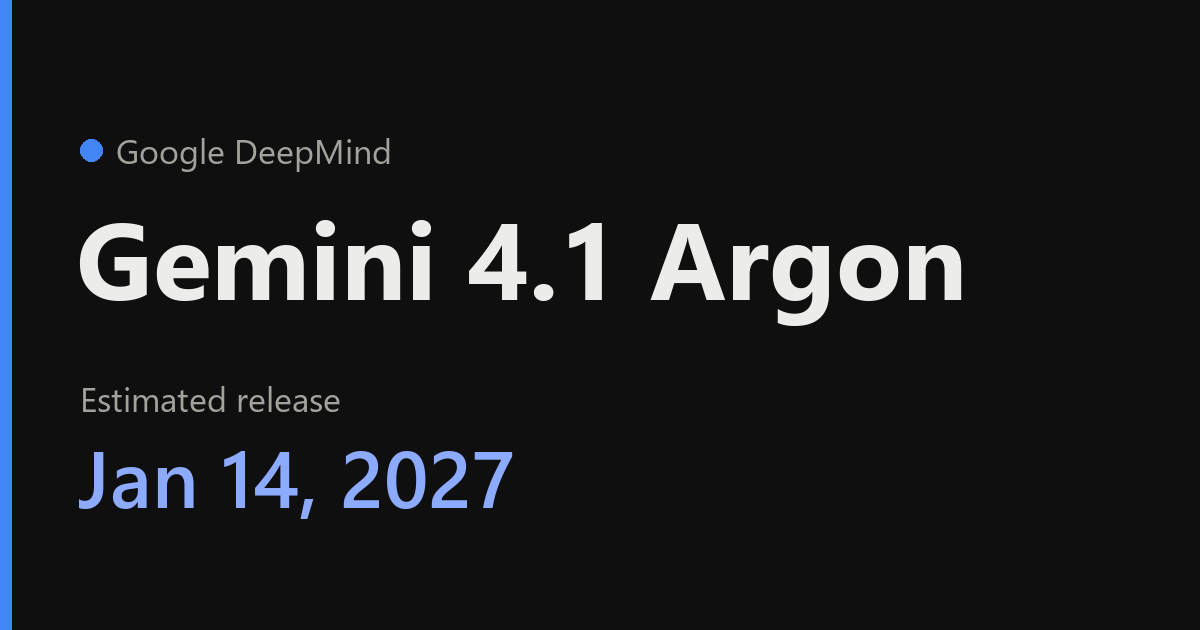
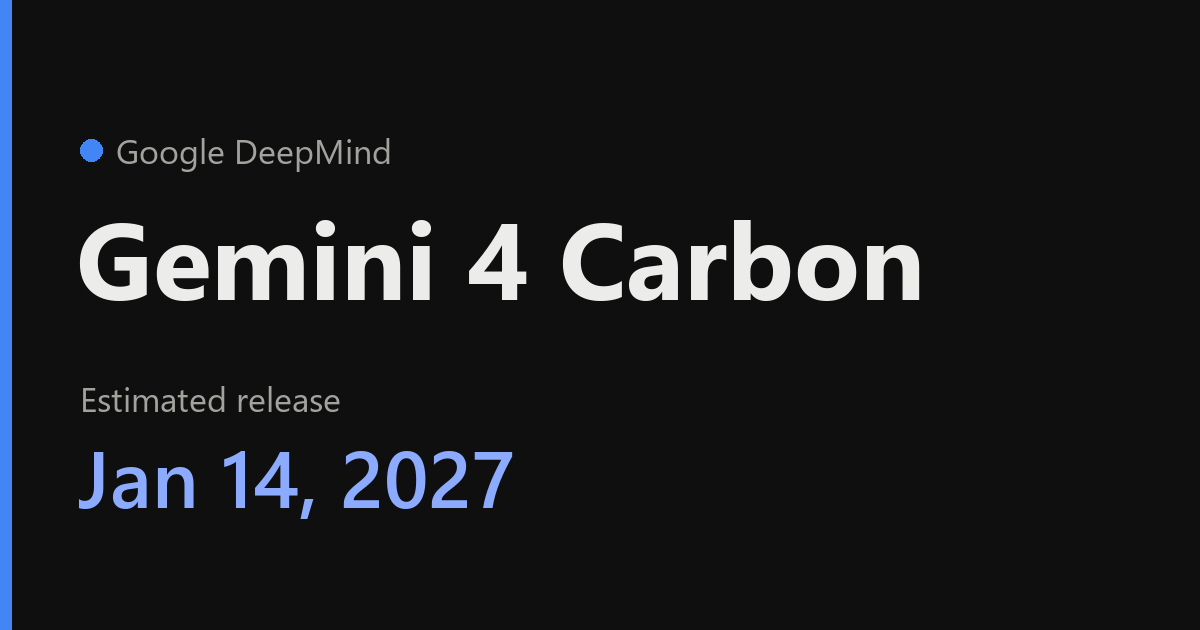
gemini 4 carbon

Changed region(s): [[0.4317, 0.3317, 0.8017, 0.5429]]

diff --git a/llm-countdowns/google/gemini-4-1-argon/index.html b/llm-countdowns/google/gemini-4-1-argon/index.html
@@ -4,21 +4,21 @@
   <meta charset="UTF-8">
   <meta name="viewport" content="width=device-width, initial-scale=1">
   <meta name="generator" content="llm-countdowns">
-  <title>When is Gemini 4.1 Argon coming out? Expected Jan 14, 2027</title>
-  <meta name="description" content="Estimated release: Jan 14, 2027. Google DeepMind. Speculative successor; Google has not announced a Gemini 4.1 name or release date as of Oct 20, 2026. Follows Gemini 4 Argon (53 on the AA Intelligence Index).">
+  <title>When is Gemini 4 Carbon coming out? Expected Jan 14, 2027</title>
+  <meta name="description" content="Estimated release: Jan 14, 2027. Google DeepMind. Rumored name for a possible future Gemini model; no Carbon launch, official product name, version or schedule found in Google sources checked Oct 22, 2026. Follows Gemini 4 Argon (53 on the AA Intelligence Index).">
   <link rel="canonical" href="https://waifuai.github.io/llm-countdowns/google/gemini-4-1-argon/">
   <meta property="og:site_name" content="LLM Countdowns">
   <meta property="og:type" content="website">
   <meta property="og:url" content="https://waifuai.github.io/llm-countdowns/google/gemini-4-1-argon/">
-  <meta property="og:title" content="When is Gemini 4.1 Argon coming out? Expected Jan 14, 2027">
-  <meta property="og:description" content="Estimated release: Jan 14, 2027. Google DeepMind. Speculative successor; Google has not announced a Gemini 4.1 name or release date as of Oct 20, 2026. Follows Gemini 4 Argon (53 on the AA Intelligence Index).">
-  <meta property="og:image" content="https://waifuai.github.io/llm-countdowns/google/gemini-4-1-argon/og.png?v=2056ed789c">
+  <meta property="og:title" content="When is Gemini 4 Carbon coming out? Expected Jan 14, 2027">
+  <meta property="og:description" content="Estimated release: Jan 14, 2027. Google DeepMind. Rumored name for a possible future Gemini model; no Carbon launch, official product name, version or schedule found in Google sources checked Oct 22, 2026. Follows Gemini 4 Argon (53 on the AA Intelligence Index).">
+  <meta property="og:image" content="https://waifuai.github.io/llm-countdowns/google/gemini-4-1-argon/og.png?v=f5a9f55cef">
   <meta property="og:image:width" content="1200">
   <meta property="og:image:height" content="630">
   <meta name="twitter:card" content="summary_large_image">
-  <meta name="twitter:title" content="When is Gemini 4.1 Argon coming out? Expected Jan 14, 2027">
-  <meta name="twitter:description" content="Estimated release: Jan 14, 2027. Google DeepMind. Speculative successor; Google has not announced a Gemini 4.1 name or release date as of Oct 20, 2026. Follows Gemini 4 Argon (53 on the AA Intelligence Index).">
-  <meta name="twitter:image" content="https://waifuai.github.io/llm-countdowns/google/gemini-4-1-argon/og.png?v=2056ed789c">
+  <meta name="twitter:title" content="When is Gemini 4 Carbon coming out? Expected Jan 14, 2027">
+  <meta name="twitter:description" content="Estimated release: Jan 14, 2027. Google DeepMind. Rumored name for a possible future Gemini model; no Carbon launch, official product name, version or schedule found in Google sources checked Oct 22, 2026. Follows Gemini 4 Argon (53 on the AA Intelligence Index).">
+  <meta name="twitter:image" content="https://waifuai.github.io/llm-countdowns/google/gemini-4-1-argon/og.png?v=f5a9f55cef">
   <meta name="theme-color" content="#4285f4">
   <link rel="icon" href="/favicon.ico" sizes="any">
   <link rel="stylesheet" href="../../site.css?v=847acb59eb">
@@ -38,10 +38,10 @@
     </div>
   </header>
   <main class="wrap">
-    <p class="crumbs"><a href="../../">LLM Countdowns</a> / <a href="../">Google DeepMind</a> / Gemini 4.1 Argon</p>
+    <p class="crumbs"><a href="../../">LLM Countdowns</a> / <a href="../">Google DeepMind</a> / Gemini 4 Carbon</p>
     <p class="eyebrow"><span class="dot" style="--lab: #4285f4"></span>Google DeepMind</p>
-    <h1>Gemini 4.1 Argon</h1>
-    <p class="aka">Tracked as: Gemini 4.1 Argon (speculative successor name)</p>
+    <h1>Gemini 4 Carbon</h1>
+    <p class="aka">Tracked as: Gemini 4 Carbon (rumored name)</p>
     <div class="when">
       <p class="when-label">Estimated release</p>
       <div class="when-date">Jan 14, 2027</div>
@@ -52,12 +52,12 @@
 
     <div class="actions">
       <button class="btn" type="button" data-copy-link>Copy link</button>
-      <button class="btn" type="button" data-calendar="2027-01-14T17:00:00Z" data-id="google-gemini-4-1-argon" data-name="Gemini 4.1 Argon">Add to calendar</button>
+      <button class="btn" type="button" data-calendar="2027-01-14T17:00:00Z" data-id="google-gemini-4-1-argon" data-name="Gemini 4 Carbon">Add to calendar</button>
     </div>
 
     <h2>Details</h2>
     <dl class="facts">
-      <dt>Status</dt><dd>Speculative successor; Google has not announced a Gemini 4.1 name or release date as of Oct 20, 2026</dd>
+      <dt>Status</dt><dd>Rumored name for a possible future Gemini model; no Carbon launch, official product name, version or schedule found in Google sources checked Oct 22, 2026</dd>
       <dt>Current model</dt><dd>Gemini 4 Argon (high), 53 on the Intelligence Index, released Oct 13, 2026 (<span data-since="2026-10-13"></span>)</dd>
       <dt>Projected score</dt><dd>About 55 (+2)</dd>
       <dt>Typical cycle</dt><dd>About 93 days between releases</dd>
@@ -65,13 +65,13 @@
 
     <h2>Why this date</h2>
     <ul class="reasons">
-      <li>Gemini 4 Argon is already released: Google announced it Sept 30 and confirmed general API availability Oct 13, 2026</li>
-      <li>Gemini 4.1 Argon is a forecast label only; neither the version number nor continued use of the Argon name is confirmed by Google</li>
-      <li>Gemini 3 Pro launched Nov 18, 2025 and Gemini 3.1 Pro followed Feb 19, 2026, a gap of 93 days; this is one historical comparison, not a reliable schedule</li>
-      <li>Applying that 93-day interval to Argon&#x27;s Oct 13 public release gives Jan 14, 2027; the countdown uses this illustrative midpoint for a low-confidence January window</li>
-      <li>The projected score assumes a modest 2-point gain over Argon&#x27;s observed 53; this is a scenario, not a benchmark result or a Google claim</li>
+      <li>Gemini 4 Argon is already released: Google confirmed general API availability Oct 13, 2026</li>
+      <li>Carbon replaces the speculative Gemini 4.1 Argon label on this forecast; neither label establishes an official successor identity or public version number</li>
+      <li>No Carbon entry was found in the checked Google Gemini API release notes; this page does not establish public availability, specifications, pricing or performance</li>
+      <li>The retained Jan 14, 2027 estimate applies one historical 93-day gap (Gemini 3 Pro to 3.1 Pro) to Argon&#x27;s Oct 13 release; it is a low-confidence placeholder, not a Carbon-specific schedule</li>
+      <li>The projected +2 Intelligence Index gain over Argon&#x27;s historical 53 baseline is a scenario, not a Carbon benchmark or a Google claim</li>
     </ul>
-    <p class="source">Source: Forecast extrapolation, checked Oct 16, 2026: Google Gemini API changelog, https://ai.google.dev/gemini-api/docs/changelog; Gemini 3 launch (Nov 18, 2025), https://blog.google/products-and-platforms/products/gemini/gemini-3/; Gemini 3.1 Pro launch (Feb 19, 2026), https://blog.google/innovation-and-ai/models-and-research/gemini-models/gemini-3-1-pro/; baseline score from https://artificialanalysis.ai/models/gemini-4-argon; release-status review Oct 20, 2026: https://ai.google.dev/gemini-api/docs/changelog</p>
+    <p class="source">Source: Release-status check Oct 22, 2026: https://ai.google.dev/gemini-api/docs/changelog (no Carbon entry found); Carbon is an unconfirmed forecast label, not a Google-announced name. Historical date comparison: https://blog.google/products-and-platforms/products/gemini/gemini-3/; https://blog.google/innovation-and-ai/models-and-research/gemini-models/gemini-3-1-pro/; historical baseline: https://artificialanalysis.ai/models/gemini-4-argon</p>
 
     <h2>More from Google DeepMind</h2>
     <h3 class="month">November 2026</h3>
@@ -91,7 +91,7 @@
       </li>
       <li class="release is-current">
         <span class="release-date">Jan 14</span>
-        <span class="release-main"><span class="release-name"><a href="../gemini-4-1-argon/">Gemini 4.1 Argon</a></span></span>
+        <span class="release-main"><span class="release-name"><a href="../gemini-4-1-argon/">Gemini 4 Carbon</a></span></span>
         <span class="release-rel" data-until="2027-01-14T17:00:00Z"></span>
       </li>
     </ol>

diff --git a/llm-countdowns/google/index.html b/llm-countdowns/google/index.html
@@ -5,19 +5,19 @@
   <meta name="viewport" content="width=device-width, initial-scale=1">
   <meta name="generator" content="llm-countdowns">
   <title>Google DeepMind: next model expected Nov 12, 2026</title>
-  <meta name="description" content="Upcoming Google DeepMind releases: Gemini 4 Flash Nov 12, 2026; Gemini 4 Flash-Lite Jan 13, 2027; Gemini 4.1 Argon Jan 14, 2027.">
+  <meta name="description" content="Upcoming Google DeepMind releases: Gemini 4 Flash Nov 12, 2026; Gemini 4 Flash-Lite Jan 13, 2027; Gemini 4 Carbon Jan 14, 2027.">
   <link rel="canonical" href="https://waifuai.github.io/llm-countdowns/google/">
   <meta property="og:site_name" content="LLM Countdowns">
   <meta property="og:type" content="website">
   <meta property="og:url" content="https://waifuai.github.io/llm-countdowns/google/">
   <meta property="og:title" content="Google DeepMind: next model expected Nov 12, 2026">
-  <meta property="og:description" content="Upcoming Google DeepMind releases: Gemini 4 Flash Nov 12, 2026; Gemini 4 Flash-Lite Jan 13, 2027; Gemini 4.1 Argon Jan 14, 2027.">
+  <meta property="og:description" content="Upcoming Google DeepMind releases: Gemini 4 Flash Nov 12, 2026; Gemini 4 Flash-Lite Jan 13, 2027; Gemini 4 Carbon Jan 14, 2027.">
   <meta property="og:image" content="https://waifuai.github.io/llm-countdowns/google/og.png?v=5f7a872ba9">
   <meta property="og:image:width" content="1200">
   <meta property="og:image:height" content="630">
   <meta name="twitter:card" content="summary_large_image">
   <meta name="twitter:title" content="Google DeepMind: next model expected Nov 12, 2026">
-  <meta name="twitter:description" content="Upcoming Google DeepMind releases: Gemini 4 Flash Nov 12, 2026; Gemini 4 Flash-Lite Jan 13, 2027; Gemini 4.1 Argon Jan 14, 2027.">
+  <meta name="twitter:description" content="Upcoming Google DeepMind releases: Gemini 4 Flash Nov 12, 2026; Gemini 4 Flash-Lite Jan 13, 2027; Gemini 4 Carbon Jan 14, 2027.">
   <meta name="twitter:image" content="https://waifuai.github.io/llm-countdowns/google/og.png?v=5f7a872ba9">
   <meta name="theme-color" content="#4285f4">
   <link rel="icon" href="/favicon.ico" sizes="any">
@@ -63,7 +63,7 @@
       </li>
       <li class="release">
         <span class="release-date">Jan 14</span>
-        <span class="release-main"><span class="release-name"><a href="gemini-4-1-argon/">Gemini 4.1 Argon</a></span></span>
+        <span class="release-main"><span class="release-name"><a href="gemini-4-1-argon/">Gemini 4 Carbon</a></span></span>
         <span class="release-rel" data-until="2027-01-14T17:00:00Z"></span>
       </li>
     </ol>

diff --git a/llm-countdowns/index.html b/llm-countdowns/index.html
@@ -173,7 +173,7 @@
       </li>
       <li class="release">
         <span class="release-date">Jan 14</span>
-        <span class="release-main"><span class="release-name"><a href="google/gemini-4-1-argon/">Gemini 4.1 Argon</a></span><span class="release-lab"><span class="dot" style="--lab: #4285f4"></span>Google DeepMind</span></span>
+        <span class="release-main"><span class="release-name"><a href="google/gemini-4-1-argon/">Gemini 4 Carbon</a></span><span class="release-lab"><span class="dot" style="--lab: #4285f4"></span>Google DeepMind</span></span>
         <span class="release-rel" data-until="2027-01-14T17:00:00Z"></span>
       </li>
       <li class="release">

diff --git a/llm-countdowns/google/gemini-4-flash-lite/index.html b/llm-countdowns/google/gemini-4-flash-lite/index.html
@@ -89,7 +89,7 @@
       </li>
       <li class="release">
         <span class="release-date">Jan 14</span>
-        <span class="release-main"><span class="release-name"><a href="../gemini-4-1-argon/">Gemini 4.1 Argon</a></span></span>
+        <span class="release-main"><span class="release-name"><a href="../gemini-4-1-argon/">Gemini 4 Carbon</a></span></span>
         <span class="release-rel" data-until="2027-01-14T17:00:00Z"></span>
       </li>
     </ol>

diff --git a/llm-countdowns/google/gemini-4-flash/index.html b/llm-countdowns/google/gemini-4-flash/index.html
@@ -90,7 +90,7 @@
       </li>
       <li class="release">
         <span class="release-date">Jan 14</span>
-        <span class="release-main"><span class="release-name"><a href="../gemini-4-1-argon/">Gemini 4.1 Argon</a></span></span>
+        <span class="release-main"><span class="release-name"><a href="../gemini-4-1-argon/">Gemini 4 Carbon</a></span></span>
         <span class="release-rel" data-until="2027-01-14T17:00:00Z"></span>
       </li>
     </ol>
